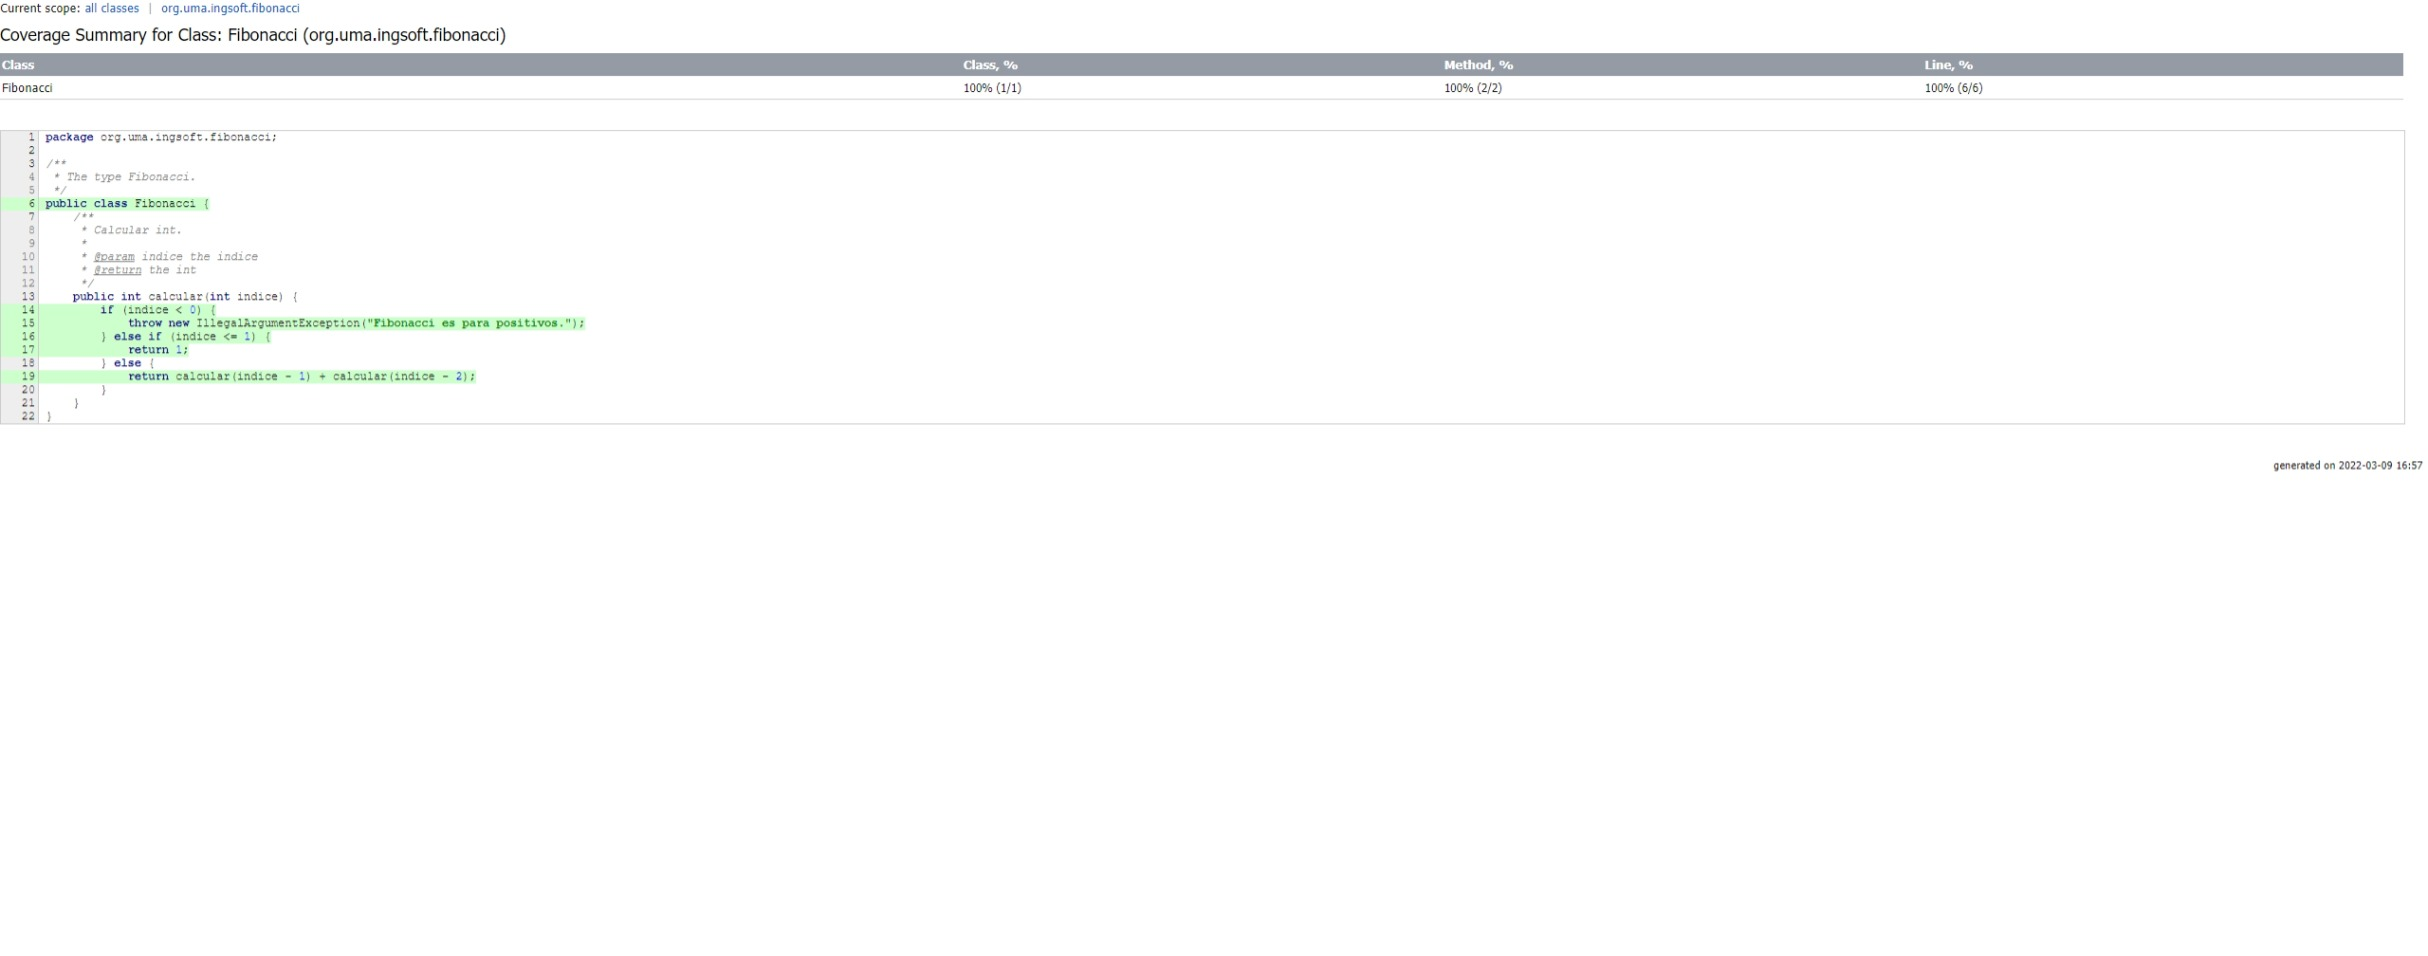
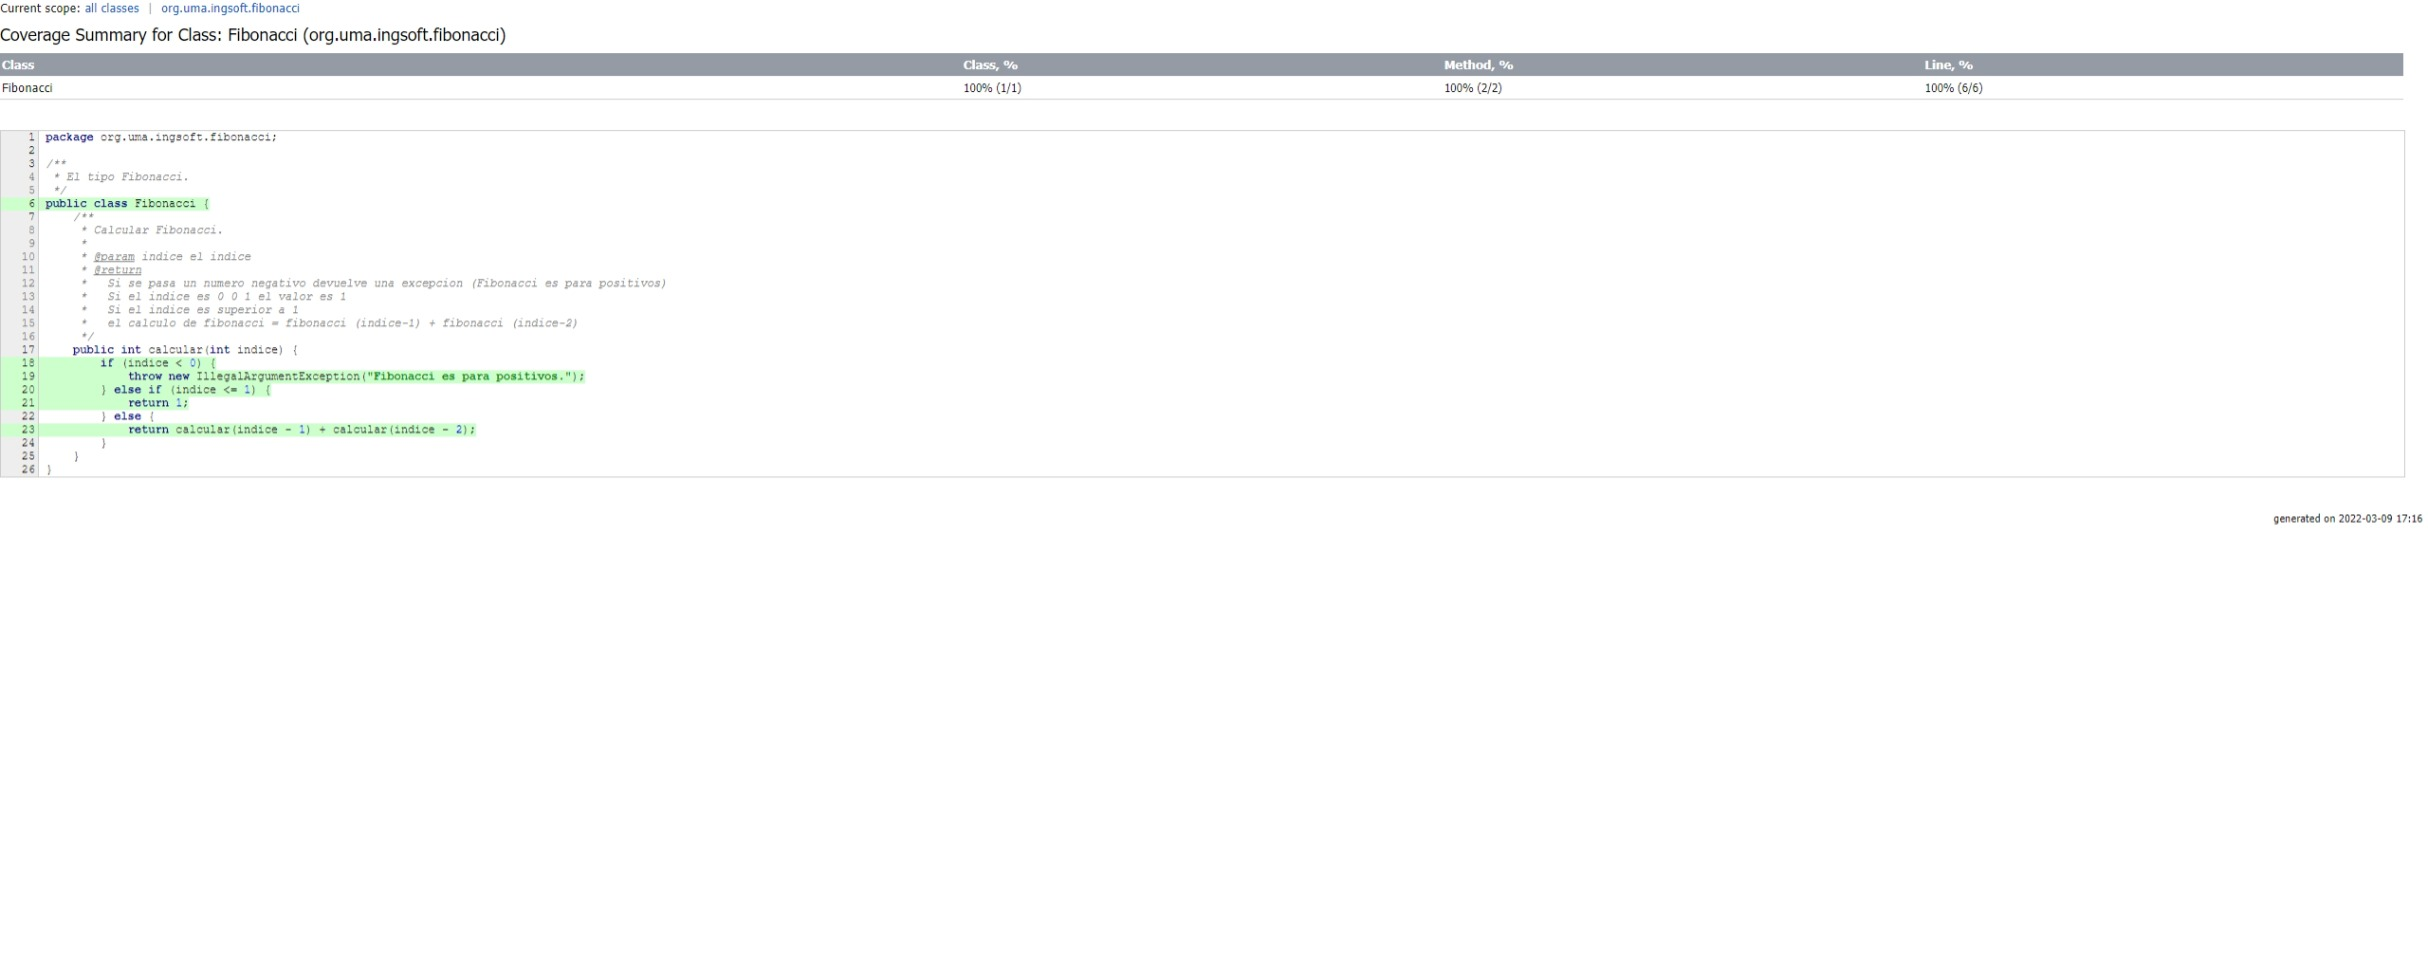
Entrega final

Changed region(s): [[0.0, 0.273, 0.278, 0.5157], [0.9267, 0.4854, 1.0, 0.546], [0.0309, 0.182, 0.0618, 0.2123]]

diff --git a/coverage/ns-1/sources/source-1.html b/coverage/ns-1/sources/source-1.html
@@ -76,25 +76,29 @@ Current scope:     <a href="../../index.html">all classes</a>
 <div class="sourceCode" id="sourceCode"><i class="no-highlight">1</i>&nbsp;package org.uma.ingsoft.fibonacci;
 <i class="no-highlight">2</i>&nbsp;
 <i class="no-highlight">3</i>&nbsp;/**
-<i class="no-highlight">4</i>&nbsp; * The type Fibonacci.
+<i class="no-highlight">4</i>&nbsp; * El tipo Fibonacci.
 <i class="no-highlight">5</i>&nbsp; */
 <b class="fc"><i class="no-highlight">6</i>&nbsp;public class Fibonacci {</b>
 <i class="no-highlight">7</i>&nbsp;    /**
-<i class="no-highlight">8</i>&nbsp;     * Calcular int.
+<i class="no-highlight">8</i>&nbsp;     * Calcular Fibonacci.
 <i class="no-highlight">9</i>&nbsp;     *
-<i class="no-highlight">10</i>&nbsp;     * @param indice the indice
-<i class="no-highlight">11</i>&nbsp;     * @return the int
-<i class="no-highlight">12</i>&nbsp;     */
-<i class="no-highlight">13</i>&nbsp;    public int calcular(int indice) {
-<b class="fc"><i class="no-highlight">14</i>&nbsp;        if (indice &lt; 0) {</b>
-<b class="fc"><i class="no-highlight">15</i>&nbsp;            throw new IllegalArgumentException(&quot;Fibonacci es para positivos.&quot;);</b>
-<b class="fc"><i class="no-highlight">16</i>&nbsp;        } else if (indice &lt;= 1) {</b>
-<b class="fc"><i class="no-highlight">17</i>&nbsp;            return 1;</b>
-<i class="no-highlight">18</i>&nbsp;        } else {
-<b class="fc"><i class="no-highlight">19</i>&nbsp;            return calcular(indice - 1) + calcular(indice - 2);</b>
-<i class="no-highlight">20</i>&nbsp;        }
-<i class="no-highlight">21</i>&nbsp;    }
-<i class="no-highlight">22</i>&nbsp;}
+<i class="no-highlight">10</i>&nbsp;     * @param indice el indice
+<i class="no-highlight">11</i>&nbsp;     * @return
+<i class="no-highlight">12</i>&nbsp;     *   Si se pasa un numero negativo devuelve una excepcion (Fibonacci es para positivos)
+<i class="no-highlight">13</i>&nbsp;     *   Si el indice es 0 0 1 el valor es 1
+<i class="no-highlight">14</i>&nbsp;     *   Si el indice es superior a 1
+<i class="no-highlight">15</i>&nbsp;     *   el calculo de fibonacci = fibonacci (indice-1) + fibonacci (indice-2)
+<i class="no-highlight">16</i>&nbsp;     */
+<i class="no-highlight">17</i>&nbsp;    public int calcular(int indice) {
+<b class="fc"><i class="no-highlight">18</i>&nbsp;        if (indice &lt; 0) {</b>
+<b class="fc"><i class="no-highlight">19</i>&nbsp;            throw new IllegalArgumentException(&quot;Fibonacci es para positivos.&quot;);</b>
+<b class="fc"><i class="no-highlight">20</i>&nbsp;        } else if (indice &lt;= 1) {</b>
+<b class="fc"><i class="no-highlight">21</i>&nbsp;            return 1;</b>
+<i class="no-highlight">22</i>&nbsp;        } else {
+<b class="fc"><i class="no-highlight">23</i>&nbsp;            return calcular(indice - 1) + calcular(indice - 2);</b>
+<i class="no-highlight">24</i>&nbsp;        }
+<i class="no-highlight">25</i>&nbsp;    }
+<i class="no-highlight">26</i>&nbsp;}
 </div>
 </pre>
 </div>
@@ -121,7 +125,7 @@ Current scope:     <a href="../../index.html">all classes</a>
 
 <div class="footer">
     
-    <div style="float:right;">generated on 2022-03-09 16:57</div>
+    <div style="float:right;">generated on 2022-03-09 17:16</div>
 </div>
 </body>
 </html>

diff --git a/coverage/ns-1/index.html b/coverage/ns-1/index.html
@@ -138,7 +138,7 @@ org.uma.ingsoft.fibonacci</div>
 
 <div class="footer">
     
-    <div style="float:right;">generated on 2022-03-09 16:57</div>
+    <div style="float:right;">generated on 2022-03-09 17:16</div>
 </div>
 </body>
 </html>

diff --git a/coverage/ns-1/index_SORT_BY_BLOCK.html b/coverage/ns-1/index_SORT_BY_BLOCK.html
@@ -138,7 +138,7 @@ org.uma.ingsoft.fibonacci</div>
 
 <div class="footer">
     
-    <div style="float:right;">generated on 2022-03-09 16:57</div>
+    <div style="float:right;">generated on 2022-03-09 17:16</div>
 </div>
 </body>
 </html>

diff --git a/coverage/ns-1/index_SORT_BY_BLOCK_DESC.html b/coverage/ns-1/index_SORT_BY_BLOCK_DESC.html
@@ -138,7 +138,7 @@ org.uma.ingsoft.fibonacci</div>
 
 <div class="footer">
     
-    <div style="float:right;">generated on 2022-03-09 16:57</div>
+    <div style="float:right;">generated on 2022-03-09 17:16</div>
 </div>
 </body>
 </html>

diff --git a/coverage/ns-1/index_SORT_BY_CLASS.html b/coverage/ns-1/index_SORT_BY_CLASS.html
@@ -138,7 +138,7 @@ org.uma.ingsoft.fibonacci</div>
 
 <div class="footer">
     
-    <div style="float:right;">generated on 2022-03-09 16:57</div>
+    <div style="float:right;">generated on 2022-03-09 17:16</div>
 </div>
 </body>
 </html>

diff --git a/coverage/ns-1/index_SORT_BY_CLASS_DESC.html b/coverage/ns-1/index_SORT_BY_CLASS_DESC.html
@@ -138,7 +138,7 @@ org.uma.ingsoft.fibonacci</div>
 
 <div class="footer">
     
-    <div style="float:right;">generated on 2022-03-09 16:57</div>
+    <div style="float:right;">generated on 2022-03-09 17:16</div>
 </div>
 </body>
 </html>

diff --git a/coverage/ns-1/index_SORT_BY_LINE.html b/coverage/ns-1/index_SORT_BY_LINE.html
@@ -138,7 +138,7 @@ org.uma.ingsoft.fibonacci</div>
 
 <div class="footer">
     
-    <div style="float:right;">generated on 2022-03-09 16:57</div>
+    <div style="float:right;">generated on 2022-03-09 17:16</div>
 </div>
 </body>
 </html>

diff --git a/coverage/ns-1/index_SORT_BY_LINE_DESC.html b/coverage/ns-1/index_SORT_BY_LINE_DESC.html
@@ -138,7 +138,7 @@ org.uma.ingsoft.fibonacci</div>
 
 <div class="footer">
     
-    <div style="float:right;">generated on 2022-03-09 16:57</div>
+    <div style="float:right;">generated on 2022-03-09 17:16</div>
 </div>
 </body>
 </html>

diff --git a/coverage/ns-1/index_SORT_BY_METHOD.html b/coverage/ns-1/index_SORT_BY_METHOD.html
@@ -138,7 +138,7 @@ org.uma.ingsoft.fibonacci</div>
 
 <div class="footer">
     
-    <div style="float:right;">generated on 2022-03-09 16:57</div>
+    <div style="float:right;">generated on 2022-03-09 17:16</div>
 </div>
 </body>
 </html>

diff --git a/coverage/ns-1/index_SORT_BY_METHOD_DESC.html b/coverage/ns-1/index_SORT_BY_METHOD_DESC.html
@@ -138,7 +138,7 @@ org.uma.ingsoft.fibonacci</div>
 
 <div class="footer">
     
-    <div style="float:right;">generated on 2022-03-09 16:57</div>
+    <div style="float:right;">generated on 2022-03-09 17:16</div>
 </div>
 </body>
 </html>

diff --git a/coverage/ns-1/index_SORT_BY_NAME_DESC.html b/coverage/ns-1/index_SORT_BY_NAME_DESC.html
@@ -138,7 +138,7 @@ org.uma.ingsoft.fibonacci</div>
 
 <div class="footer">
     
-    <div style="float:right;">generated on 2022-03-09 16:57</div>
+    <div style="float:right;">generated on 2022-03-09 17:16</div>
 </div>
 </body>
 </html>

diff --git a/coverage/index.html b/coverage/index.html
@@ -136,7 +136,7 @@ Current scope:     all classes
 
 <div class="footer">
     
-    <div style="float:right;">generated on 2022-03-09 16:57</div>
+    <div style="float:right;">generated on 2022-03-09 17:16</div>
 </div>
 </body>
 </html>
